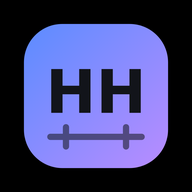
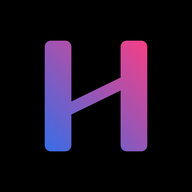
Add files via upload

diff --git a/icons/logo.js b/icons/logo.js
@@ -1,0 +1,24 @@
+// ============================================================
+// Logotipo — Henrique Hadlich Personal Trainer
+// SVG vetorial original, então fica nítido em qualquer tamanho
+// (app pequeno, splash grande, PDF impresso).
+// ============================================================
+
+const LOGO_MARK_SVG = `<svg viewBox="0 0 64 64">
+  <defs>
+    <linearGradient id="logoGradMark" gradientUnits="userSpaceOnUse" x1="4" y1="60" x2="60" y2="4">
+      <stop offset="0" stop-color="#2F6FEA"/>
+      <stop offset="1" stop-color="#FF3D82"/>
+    </linearGradient>
+  </defs>
+  <rect x="7" y="5" width="13" height="54" rx="3" fill="url(#logoGradMark)"/>
+  <rect x="44" y="5" width="13" height="54" rx="3" fill="url(#logoGradMark)"/>
+  <path d="M7 41 L20 41 L57 23 L44 23 Z" fill="url(#logoGradMark)"/>
+</svg>`;
+
+// currentColor no texto: fica claro em fundo escuro (topo do app,
+// splash) e escuro quando convertido pra imagem no PDF (fundo branco).
+const LOGO_WORDMARK_SVG = `<svg viewBox="0 0 220 46">
+  <text x="0" y="20" font-family="system-ui, -apple-system, Segoe UI, sans-serif" font-weight="800" font-size="19" letter-spacing="0.3" fill="currentColor">HENRIQUE HADLICH</text>
+  <text x="0" y="38" font-family="system-ui, -apple-system, Segoe UI, sans-serif" font-weight="600" font-size="11" letter-spacing="2.5" fill="#8A8F9C">PERSONAL TRAINER</text>
+</svg>`;
